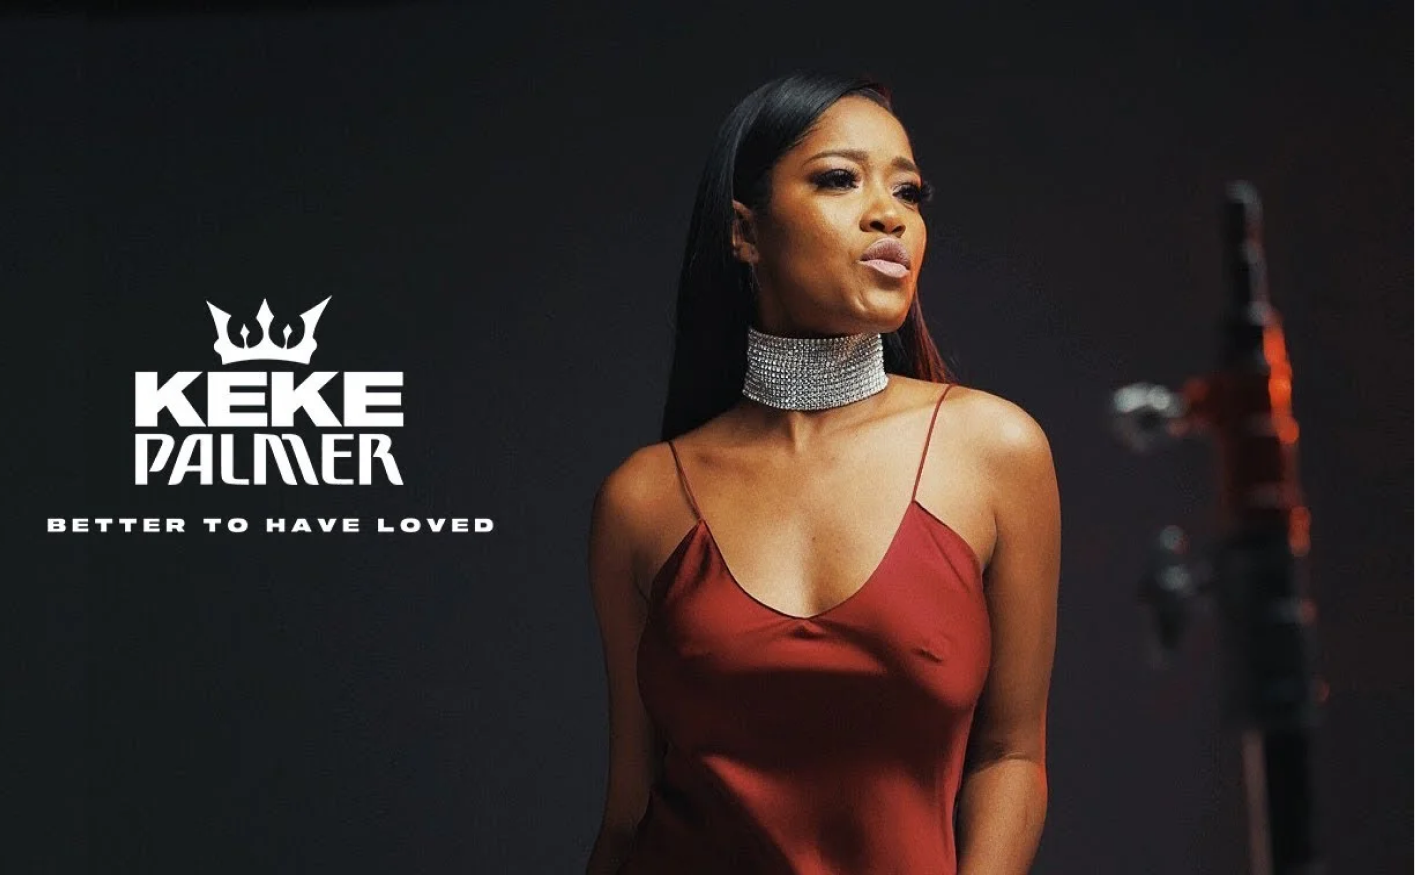
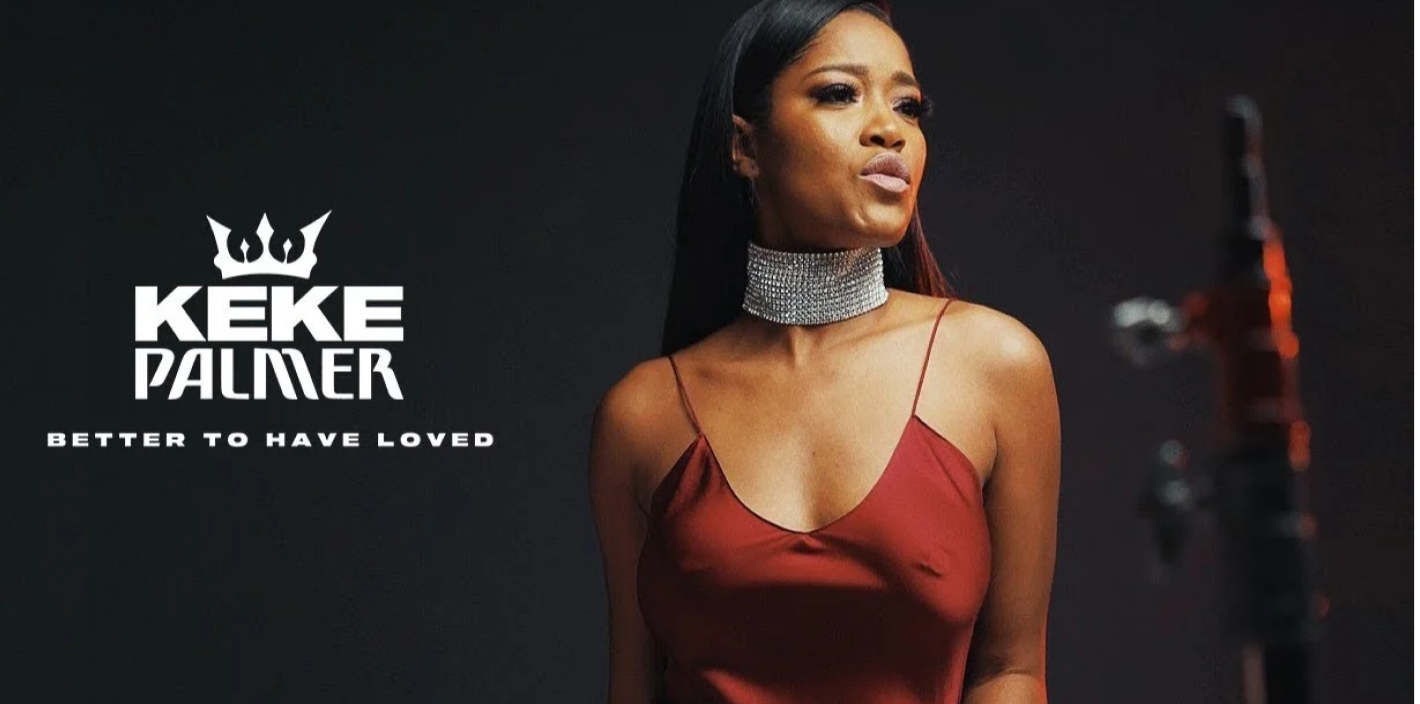
Made changes to css

diff --git a/CSS/index.css b/CSS/index.css
@@ -11,11 +11,11 @@
 
 body {
     background-image: url(../IMG/Background_Images/Home_Background_IMG.png);
-    /* background-position: center;
+    background-position: center;
     background-repeat: no-repeat;
-    background-size: cover;
+    /* background-size:contain; */
     background-attachment:fixed;
-    font-family:'Segoe UI', Tahoma, Geneva, Verdana, sans-serif; */
+    font-family:'Segoe UI', Tahoma, Geneva, Verdana, sans-serif;
 }
 
 /* Heading Styles */
